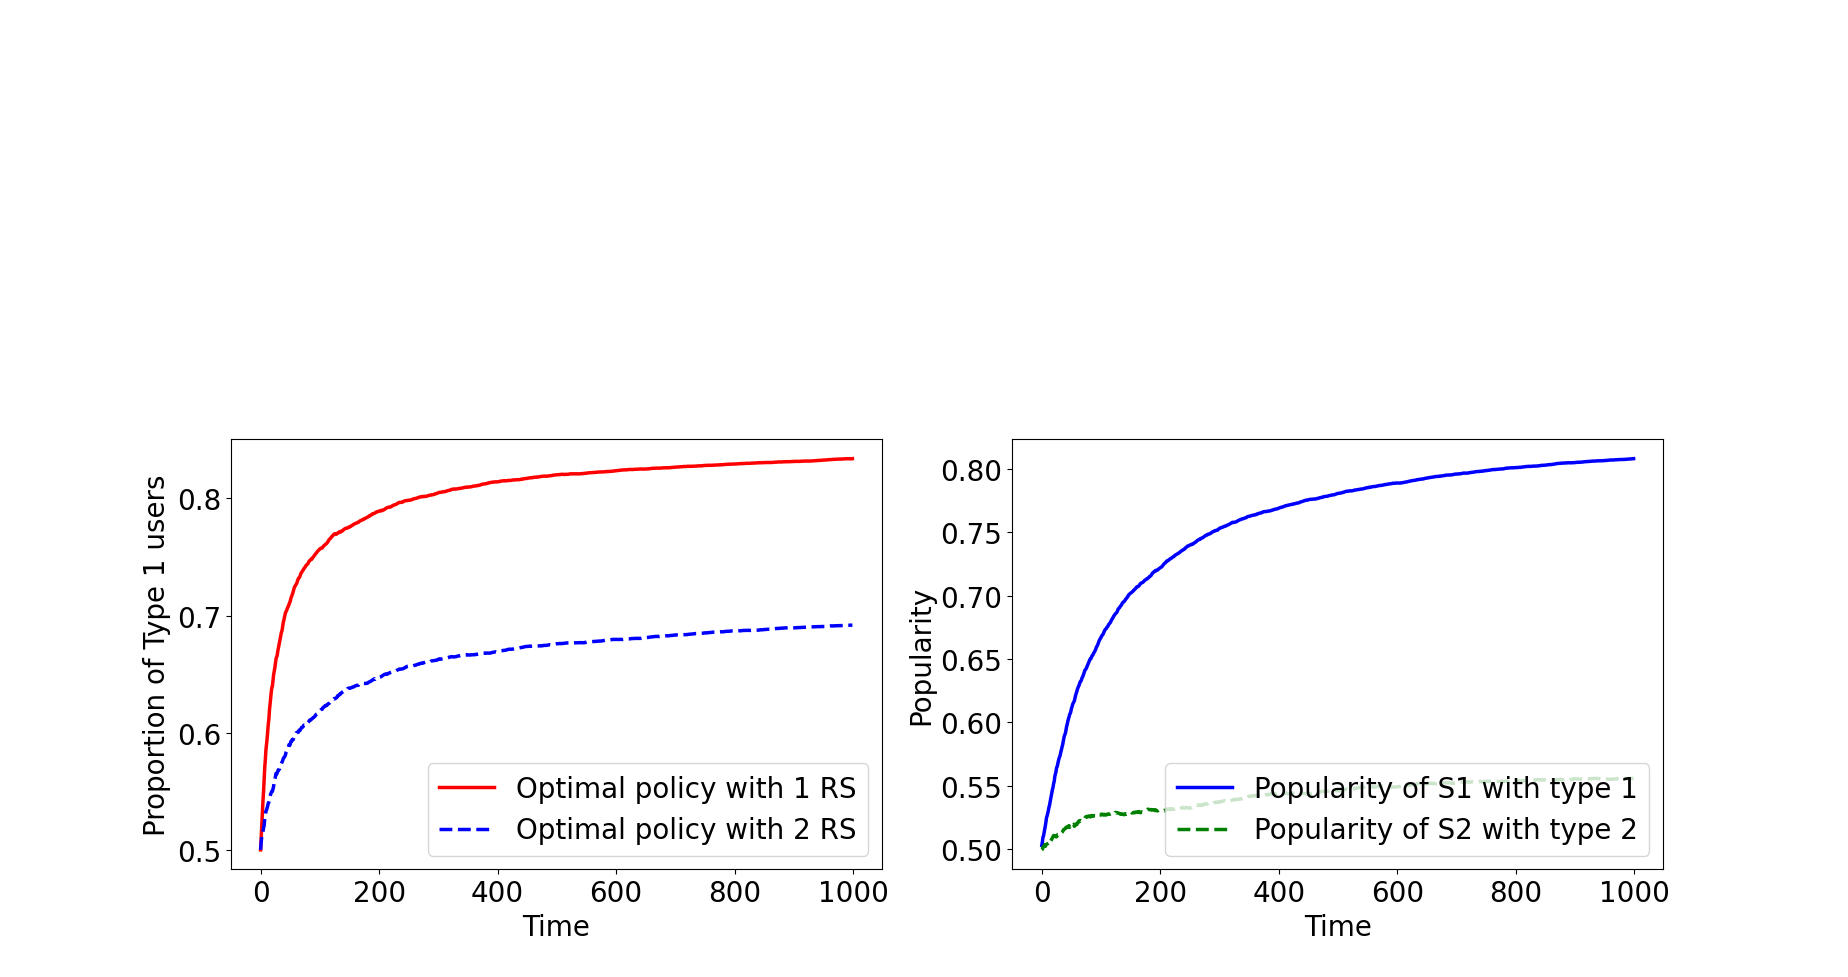
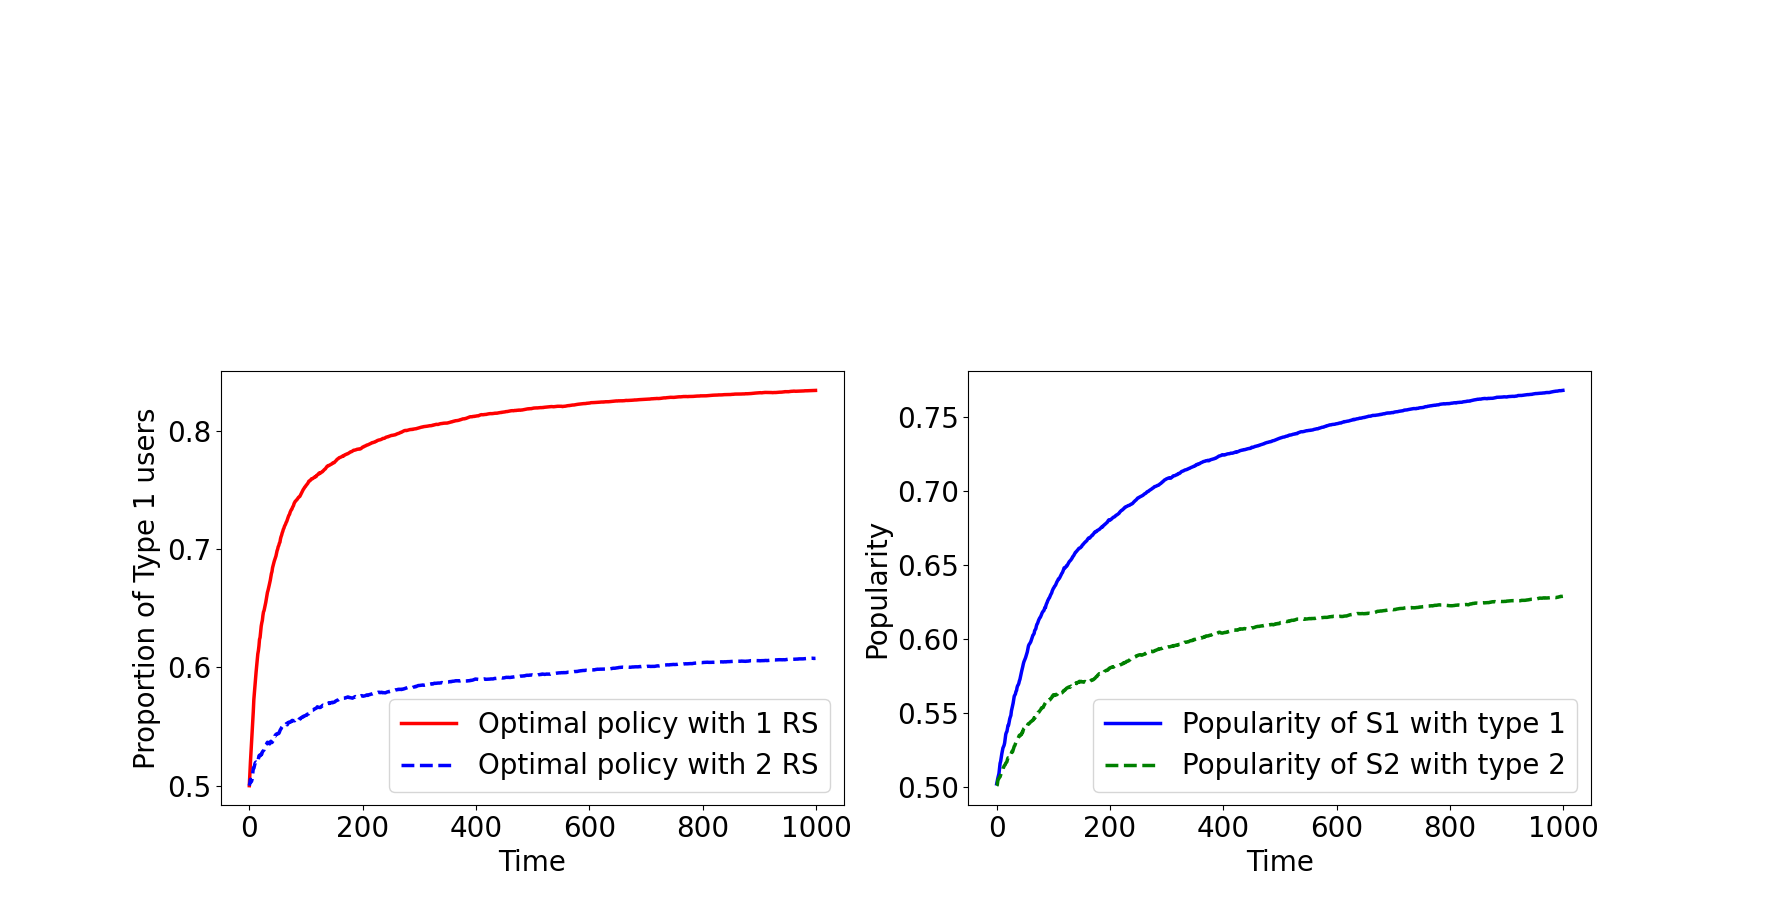
figures

diff --git a/BTP code/Paper Code/PAPERtwoRecommenders.py b/BTP code/Paper Code/PAPERtwoRecommenders.py
@@ -305,9 +305,9 @@ def simulateTHO(nSim,nTime,B,initUrn,initProp):
 
 #___________________________________________________________MAIN___________________________________________________________#
 
-b00 = 0.7 # initialise bernoulli reward matrix # 
-b01 = 0.1
-b10 = 0.6
+b00 = 0.6 # initialise bernoulli reward matrix # 7568
+b01 = 0.2
+b10 = 0.2
 b11 = 0.6
 B = np.matrix([[b00,b01],[b10,b11]])
 
@@ -324,14 +324,14 @@ out2,pop00,pop11 = simulateOPT2(nSim,nTime,B,initUrn,initProp)
 pl.subplot(1,2,1)
 pl.plot(out1 , 'r-',label='Optimal policy with 1 RS',linewidth = 2.5)				# POPULATION PROPORTION PLOTTING # NORMAl
 pl.plot(out2 ,'b--',label='Optimal policy with 2 RS',linewidth = 2.5)
-pl.legend(loc='lower right',frameon=True,prop={"size":20})
+pl.legend(loc='upper right',frameon=True,prop={"size":20})
 pl.xlabel('Time',fontsize=20)
 pl.ylabel('Proportion of Type 1 users',fontsize=20)
 pl.tick_params(labelsize=20);
 pl.subplot(1,2,2)
 pl.plot(pop00 ,'b-',label='Popularity of S1 with type 1',linewidth = 2.5)			# REGRET PLOTTING
 pl.plot(pop11 ,'g--',label='Popularity of S2 with type 2',linewidth = 2.5)
-pl.legend(loc='lower right',frameon=True,prop={"size":20})
+pl.legend(loc='upper right',frameon=True,prop={"size":20})
 pl.xlabel('Time',fontsize=20)
 pl.ylabel('Popularity',fontsize=20)
 pl.tick_params(labelsize=20);
